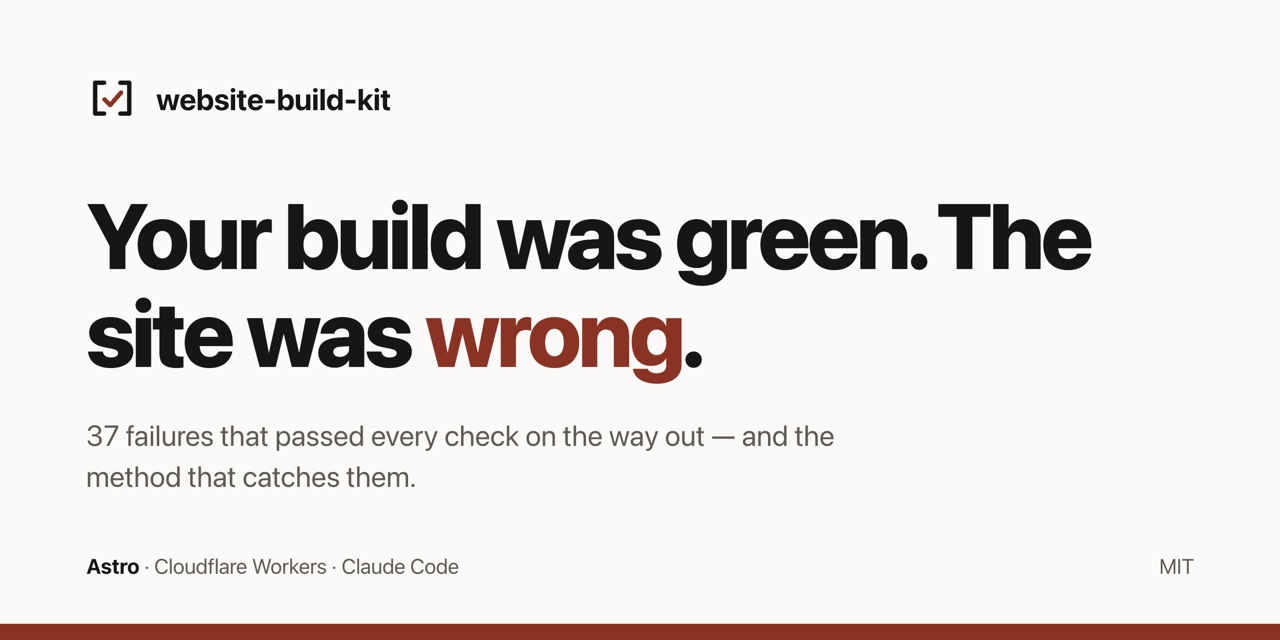
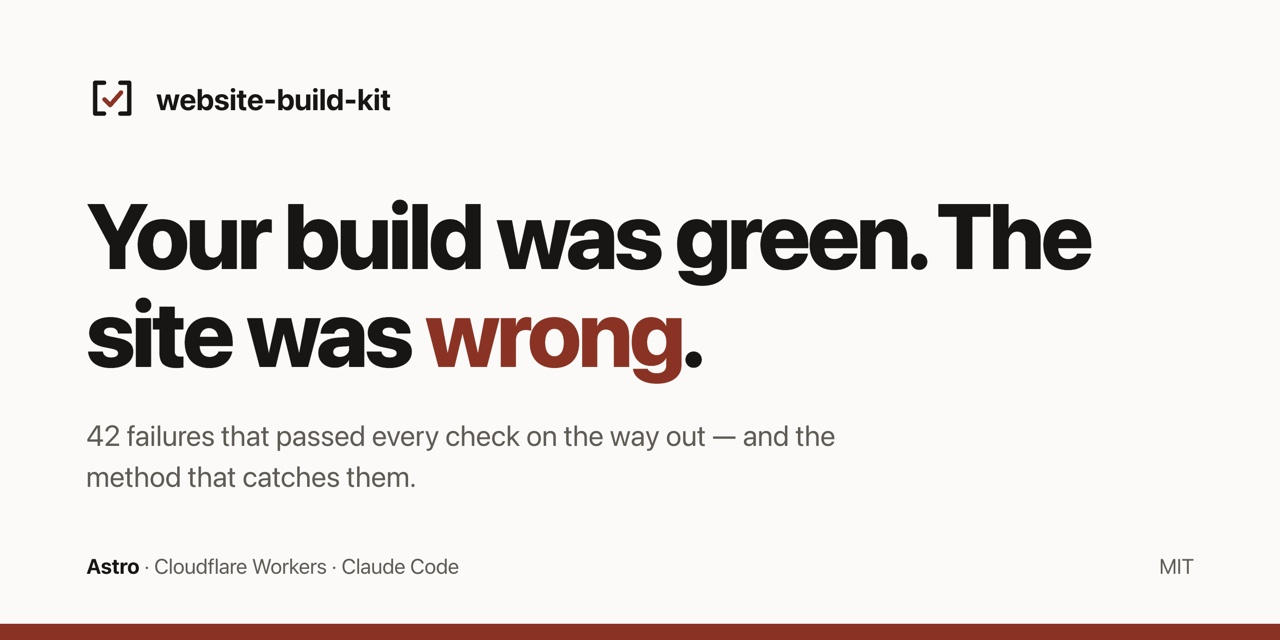
skill: traps, features §8 and match notes from an event-venue rebuild
traps.md: the ClientRouter claiming a link click before a delegated handler;
transitionend bubbling from children (and keeping the fixed bar until a wipe
covers it); a parallax layer 137-157% of its window rendering wider than
`sizes` says. Count 39 -> 42 on the landing page and both share cards.
features.md §8: a header that hides on scroll (default no; five rules if yes).
build.md: two causes of "everything a little off" in match - a fluid bottom of
the type scale against fixed 16px/13px, and a header offset by padding.
stacks.md §4: a gallery's crop as a per-section `shape` select.

Changed region(s): [[0.0625, 0.6562, 0.5625, 0.7188], [0.5938, 0.6562, 0.6562, 0.7188]]

diff --git a/site/index.html b/site/index.html
@@ -4,7 +4,7 @@
 <meta charset="utf-8">
 <meta name="viewport" content="width=device-width,initial-scale=1">
 <title>Website Build Kit — Astro + Cloudflare marketing sites</title>
-<meta name="description" content="Build production marketing sites on Astro and Cloudflare Workers: a WordPress migration playbook, a Claude Code skill, and 39 failures documented from real rebuilds.">
+<meta name="description" content="Build production marketing sites on Astro and Cloudflare Workers: a WordPress migration playbook, a Claude Code skill, and 42 failures documented from real rebuilds.">
 <link rel="canonical" href="https://nurkamol.github.io/website-build-kit/">
 <meta name="author" content="Nurkamol Vakhidov">
 <meta name="theme-color" content="#fbfaf8" media="(prefers-color-scheme: light)">
@@ -13,7 +13,7 @@
 <meta property="og:type" content="website">
 <meta property="og:site_name" content="Website Build Kit">
 <meta property="og:title" content="Your build was green. The site was wrong.">
-<meta property="og:description" content="39 failures that passed every check on the way out — and the method that catches them. Astro on Cloudflare Workers, with a WordPress migration playbook.">
+<meta property="og:description" content="42 failures that passed every check on the way out — and the method that catches them. Astro on Cloudflare Workers, with a WordPress migration playbook.">
 <meta property="og:url" content="https://nurkamol.github.io/website-build-kit/">
 <!-- JPEG, not WebP or SVG: Facebook and LinkedIn still fail to render a WebP
      og:image and no scraper accepts SVG, so a shared post unfurls with no
@@ -24,7 +24,7 @@
 <meta property="og:image:alt" content="Website Build Kit — your build was green, the site was wrong.">
 <meta name="twitter:card" content="summary_large_image">
 <meta name="twitter:title" content="Your build was green. The site was wrong.">
-<meta name="twitter:description" content="39 failures that passed every check on the way out — and the method that catches them.">
+<meta name="twitter:description" content="42 failures that passed every check on the way out — and the method that catches them.">
 <meta name="twitter:image" content="https://nurkamol.github.io/website-build-kit/brand/og.jpg">
 
 <link rel="icon" href="brand/mark.svg" type="image/svg+xml">
@@ -36,7 +36,7 @@
   "@context": "https://schema.org",
   "@type": "SoftwareSourceCode",
   "name": "Website Build Kit",
-  "description": "A method and starter for building production marketing sites on Astro and Cloudflare Workers, with a WordPress migration playbook and 39 documented silent failures.",
+  "description": "A method and starter for building production marketing sites on Astro and Cloudflare Workers, with a WordPress migration playbook and 42 documented silent failures.",
   "codeRepository": "https://github.com/nurkamol/website-build-kit",
   "url": "https://nurkamol.github.io/website-build-kit/",
   "programmingLanguage": ["JavaScript", "TypeScript", "Astro"],
@@ -273,7 +273,7 @@
   <p class="eyebrow">Astro · Cloudflare Workers · Claude Code</p>
   <h1>Your build was green. The site was <em>wrong</em>.</h1>
   <p class="lede">
-    A method for shipping production marketing sites — and a catalogue of 39 failures that
+    A method for shipping production marketing sites — and a catalogue of 42 failures that
     passed every check on the way out. Clean build, clean types, clean deploy, wrong result.
   </p>
   <div class="cta">

diff --git a/skills/website-build/references/traps.md b/skills/website-build/references/traps.md
@@ -409,6 +409,71 @@ the hamburger on any page after the first updated the previous page's **detached
 time (`const menuEl = () => document.querySelector('[data-menu-panel]')`) and delegate
 clicks from `document` rather than binding to the menu itself.
 
+It is not only the header. Any component script that does `const dialog =
+document.querySelector(…)` at module scope holds the **first** page's node: come back to a
+gallery from another page and the viewer drives a detached dialog nobody can see.
+
+---
+
+### The ClientRouter takes a link click before your handler does
+
+On an event-venue rebuild, gallery thumbnails were links to the large photo, with a
+document-level click listener opening a full-screen viewer instead. With `<ClientRouter />` on, a
+click navigated to **the bare `.webp` file** — a white page with one photo on it. No error.
+
+*Why:* the router also listens for clicks on `document`, and its listener was registered first —
+its script is in `<head>`. It checks `defaultPrevented`, finds nothing has claimed the click, calls
+`preventDefault()` itself and navigates. Whatever the viewer's listener does after that, the page
+is already leaving. Delegating from `document` is right (the photos are new nodes on every page);
+it is the order that loses.
+
+*Symptom:* the enhancement works wherever the router is off, and on the real site every click
+leaves the page. `test:gates` reproduces it: the same link without the attribute below is taken to
+the image file.
+
+*Fix:* `data-astro-reload` on every link a script intercepts. The router skips it, the script gets
+the click, and with JavaScript off it is still a working link. The template's `LightboxPhoto.astro`
+sets it; set it yourself on anything else you enhance. (A capture-phase listener would also win the
+race, but it is invisible at the link — the attribute documents itself.)
+
+---
+
+### `transitionend` from a child ends a close early
+
+A full-screen menu opened with a `clip-path` wipe. Closing it removed the open state and waited
+for `transitionend` on the panel before setting `hidden`, with `{ once: true }`. The links inside
+had their own staggered transitions — and **`transitionend` bubbles**, so the first child to finish
+ended the close and the panel vanished mid-wipe instead of wiping away.
+
+*Fix:* check `event.target === panel`, and remove the listener by hand rather than with
+`{ once: true }`, which removes it on the first event whoever sent it. Keep the timeout as the
+backstop for a transition that never fires. The template's `Header.astro` had the same
+`{ once: true }` shape and now filters.
+
+*And the open side of a wipe:* the fixed bar is hidden while the menu is open, so it cannot sit
+over the panel. With a wipe, hide it **once the wipe has covered it** — `transition: visibility 0s
+linear <wipe duration>` — not on the first frame, or the page under the bar shows for the length of
+the wipe. Under reduced motion there is no wipe and no delay.
+
+---
+
+### A parallax layer renders its photo wider than its slot, so `sizes` undersells it
+
+Parallax photo layers are taller than their window so the photo can drift through the spare
+height — 137% side by side and 151–157% stacked, on the event-venue rebuild. With `object-fit:
+cover` in a box that tall the photo is scaled to the **layer's** height, so a landscape photo
+renders up to ~1.5× wider than the slot. `sizes` describes the slot, the browser picks a rendition
+for the slot, and stretches it.
+
+*Symptom:* those photos, and only those, are soft on a 2× screen. Nothing reports it — the file is
+"appropriately sized" for what `sizes` claimed. Capping density there (a high-DPR `<source>` held
+to the 2× file, a sensible saving on a gallery) makes it worse: it is the one image whose real
+need is above the cap.
+
+*Fix:* write `sizes` for the rendered width, not the slot — `calc(45vw * 1.37)` for a 137% layer.
+Then check it in the browser rather than by arithmetic: the width in `img.currentSrc` should be at
+least `img.getBoundingClientRect().width * devicePixelRatio`. Never cap density on a parallax layer.
+
 ---
 
 ### A supplied `favicon.svg` was a different logo entirely

diff --git a/CHANGELOG.md b/CHANGELOG.md
@@ -2,6 +2,40 @@
 
 ## Unreleased — three silent failures from a WordPress → Astro + Pages CMS rebuild
 
+- **A photo viewer ships in the template, as behaviour with no look.** `Lightbox.astro` (a
+  `<dialog>` opened with `showModal()`: "n / total" per `[data-lightbox-group]`, previous / next
+  buttons, ← →, swipe, a zoom toggle, full screen hidden where `document.fullscreenEnabled` is
+  false, a click on the dark area closes, Escape closes, focus returns to the photo) and
+  `LightboxPhoto.astro` (the link that opens it). From an event-venue rebuild, where three things
+  in it each went wrong once: the link must point at the **largest** rendition so it works without
+  JavaScript — the manifest's `src`, not `<Img>`'s 1024px-capped one; the link must carry
+  **`data-astro-reload`**, or the ClientRouter takes the click first and navigates to the bare
+  `.webp`; and the script sets up on `astro:page-load` with one document-level click listener, so
+  it never drives the previous page's detached dialog. The photo is sized to the screen in pixels,
+  not `object-fit`, which would swallow the click around it. Grey ramp and tokens only — `tells`
+  still says "fresh template". The grid stays the project's; `docs/the-template.md` says how to
+  use it. `test:gates` builds a copy of the template with it on a page and drives it in Chrome,
+  including the refusal: the same link without the attribute really is taken to the image file by
+  the router, so the positive cases are known to exercise it.
+- **`Header.astro`: `transitionend` from a child could end the menu's close early.** It waited
+  with `{ once: true }`, and `transitionend` bubbles — the first button or link to finish a
+  transition of its own set `hidden` on the panel mid-animation. Found on the same rebuild with a
+  `clip-path` wipe; the template now filters on `event.target === panel`.
+- **Three traps** (`traps.md`): the ClientRouter claiming a same-origin link click before a
+  delegated handler; `transitionend` bubbling from children, plus keeping the fixed bar until a
+  wipe has covered it; and a parallax layer 137–157% of its window rendering its photo wider than
+  `sizes` says, so it is soft on a 2× screen — worse with a density cap. The count on the landing
+  page and both share cards is 42.
+- **`features.md` §8 — a header that hides on scroll.** Default no; if yes, five rules: never
+  hidden near the top, with the menu open, or with focus inside it; shown on `focusin`; a few
+  pixels of slack; no transition under reduced motion. Plus clearing the state on `astro:page-load`
+  for a persisted header. "Adjacent, and quickly" is now §9.
+- **`build.md`, reading `match`:** two causes of "everything is a little off" — a fluid bottom of
+  the type scale against an original that sets fixed 16px body and 13px small type (one pixel
+  rewraps every paragraph), and a title block offset for the fixed header by padding, which starts
+  at y=0 and is compared shifted by the bar's height. **`stacks.md` §4:** a gallery's crop as a
+  per-section `shape` select (3:2 / 9:8), with the field config.
+
 - **`match` moved a faded-in element by clearing a transform that was layout, not motion.** The
   freeze's catch-all reveal (opacity 0 with a transition) forced `transform: none` on everything it
   revealed. Salient centres its scrolling text with `translateY(-50%)` and fades it in by opacity

diff --git a/skills/website-build/references/features.md b/skills/website-build/references/features.md
@@ -355,7 +355,59 @@ brief, not a bigger version of this one.
 
 ---
 
-## 8. Adjacent, and quickly
+## 8. A header that hides on scroll
+
+**Default: no.** ✅ The template's bar is fixed and stays. A bar that leaves on the way down and
+comes back on the way up buys a few dozen pixels of reading room, and costs five rules that each
+fail in silence when one is missed.
+
+**Say yes** when the original does it and the rebuild is faithful, or on long reading pages where
+the bar is tall enough to matter. Not because it feels modern.
+
+### If yes, the shape
+
+| Rule | What goes wrong without it |
+| --- | --- |
+| **Never hidden within its own height of the top** | Trackpad jitter at `scrollY` 3 hides the bar on a page that has not been scrolled |
+| **Never hidden with the menu open** | The close control lives in the bar on most designs. Hidden, the menu has no way out but Escape |
+| **Never hidden with focus inside it, and shown on `focusin`** | A keyboard user tabs into a bar that is off-screen — focus on a link nobody can see (WCAG 2.4.7), which reads as a broken page |
+| **A few pixels of slack each way** (~6px) | Without it the bar flickers on every small scroll correction |
+| **Reduced motion: no transition, same behaviour** | The bar still hides; it just does not slide |
+
+Two more, because the header is usually `transition:persist`: **clear the hidden state on
+`astro:page-load`**, or the next page opens with no header at `scrollY` 0, and keep the scroll
+listener in the same bind-once guard as the menu so it is not registered once per navigation.
+The template's header carries the hooks — `data-scrolled`, `data-menu-open` and the `bound`
+guard — so the yes is a dozen lines in `Header.astro`, not a rewrite:
+
+```ts
+let lastY = window.scrollY;
+const autoHide = () => {
+  const y = window.scrollY;
+  const dy = y - lastY;
+  if (Math.abs(dy) < 6) return;
+  lastY = y;
+  const keep = open || y <= header.offsetHeight || header.contains(document.activeElement);
+  header.toggleAttribute('data-hidden', !keep && dy > 0);
+};
+header.addEventListener('focusin', () => header.removeAttribute('data-hidden'));
+// call autoHide() from the existing rAF-throttled scroll handler
+```
+
+```css
+.header { transition: transform var(--dur-base) var(--ease-out); }
+.header[data-hidden] { transform: translateY(-100%); }
+@media (prefers-reduced-motion: reduce) { .header { transition: none; } }
+```
+
+From a faithful event-venue rebuild whose original hid its bar this way (0.3s ease). The rules
+are that build's header, not a reading of the spec.
+
+Not in the template — a bar that moves is a decision, and the next site should not inherit it.
+
+---
+
+## 9. Adjacent, and quickly
 
 | | Default |
 | --- | --- |

diff --git a/skills/website-build/references/build.md b/skills/website-build/references/build.md
@@ -397,6 +397,22 @@ be faithful to. A deliberate change (a section dropped on the client's instructi
 recorded in `BUILD-STATE.md` and the run is read with `--report-only`, never by raising the
 threshold until it passes.
 
+**Two causes that read as "everything is a little off", both from an event-venue rebuild:**
+
+- **Every text section fails by a few percent, at desktop only.** The bottom of the type scale is
+  fluid in the template — `--step-0` reaches 17px and `--step--1` 14.2px at 1440 — and a WordPress
+  theme usually sets body text at a fixed 16px and small type (labels, buttons, eyebrows) at a fixed
+  13px at every width. One pixel rewraps every paragraph, and a rewrapped paragraph is a different
+  section. Measure the original at 390, 768 and 1440; if it does not move, make `--step-0` and
+  `--step--1` plain `rem`. `npm run design -- --apply` already writes a fixed step when the
+  measured sizes do not change, so this bites a scale set or tuned by hand
+- **The first section under the header fails by a lot and looks identical.** The new block
+  reserves the fixed header with **padding** (`.under-header`), so its box starts at y=0 with the
+  bar's height inside it; the original's block started *below* the bar. Paired by position, one is
+  compared against the other shifted by the header's height. If the original's first block starts
+  below the bar, reserve the space with `margin-block-start: var(--header-h)` on that block
+  instead. Keep padding where a first section's own background runs up under the bar
+
 The scrolled header, the opened menu and each desktop dropdown are compared as `state: …`
 sections under the same threshold — those are what a client touches first. Motion is frozen
 identically on both sides (parallax layers, scroll-driven marquees, reveal-on-scroll, rotating

diff --git a/skills/website-build/references/stacks.md b/skills/website-build/references/stacks.md
@@ -549,6 +549,24 @@ A field is part of the deliverable, not a wrapper around a key name.
   alt text from the filename** — `DSC_0481` and `hero-final-v3-USE-THIS` are what filenames
   actually look like, and a plausible-looking wrong alt is worse than none because a reviewer
   scrolls past it.
+- **A gallery's crop is a property of the section, not of each photo.** On an event-venue
+  rebuild the old theme cropped per gallery — one set at 3:2, another nearly square — so it
+  migrated as a `shape` select on the section (`wide` 3:2 ✅ default, `square` 9:8), applied as a
+  class on the grid, with the full photo stored and the crop done in CSS. Per-photo crops become a field nobody fills
+  in consistently; no field at all means the client cannot fix the one section that looks wrong.
+  ⚠ **A theme's masonry of its own pre-cut thumbnails does not survive the move**: rebuilt from the
+  full photos, an even 3:2 grid measured closer to the original (`npm run match`) than a masonry
+  did. The viewer for a gallery ships in the template — `Lightbox.astro` and `LightboxPhoto.astro`
+
+  ```yaml
+  - name: shape
+    label: Photo shape
+    type: select
+    options:
+      values:
+        - { value: wide, label: "Landscape 3:2, all the same (default)" }
+        - { value: square, label: "Nearly square 9:8, all the same" }
+  ```
 
 ### What the CMS may edit, and what it must never see
 

diff --git a/skills/website-build/references/kickoff.md b/skills/website-build/references/kickoff.md
@@ -183,6 +183,8 @@ earns it with real choreography.
 - **Persistent mobile CTA?** — a sticky call or book bar is the single highest-impact mobile
   feature for a services business, and the single most annoying if done badly
 - **What must be visible without scrolling on a phone** — usually the offer and the CTA
+- **Header on scroll** — fixed ✅, or hiding on the way down and back on the way up. Five rules
+  if yes: [`features.md`](features.md) §8
 - **Light / dark / auto?** — real cost, real audience for some sectors, none for others. If yes it is
   **three** states, not two, and the flash on load is the thing to get right: [`features.md`](features.md) §3
 
@@ -232,7 +234,8 @@ Offer as a checklist. Everything here is implementable inside the stack profile 
 ### Trust and conversion
 - Credential / accreditation strip
 - Testimonials, with Review schema only if they are real and attributable
-- Case studies or project gallery
+- Case studies or project gallery — the full-screen photo viewer ships in the template
+  (`Lightbox.astro`); the grid is the project's
 - FAQ with FAQPage schema
 - Pricing or package tables
 - Booking embed (Calendly, Cal.com) — check the payload before committing
